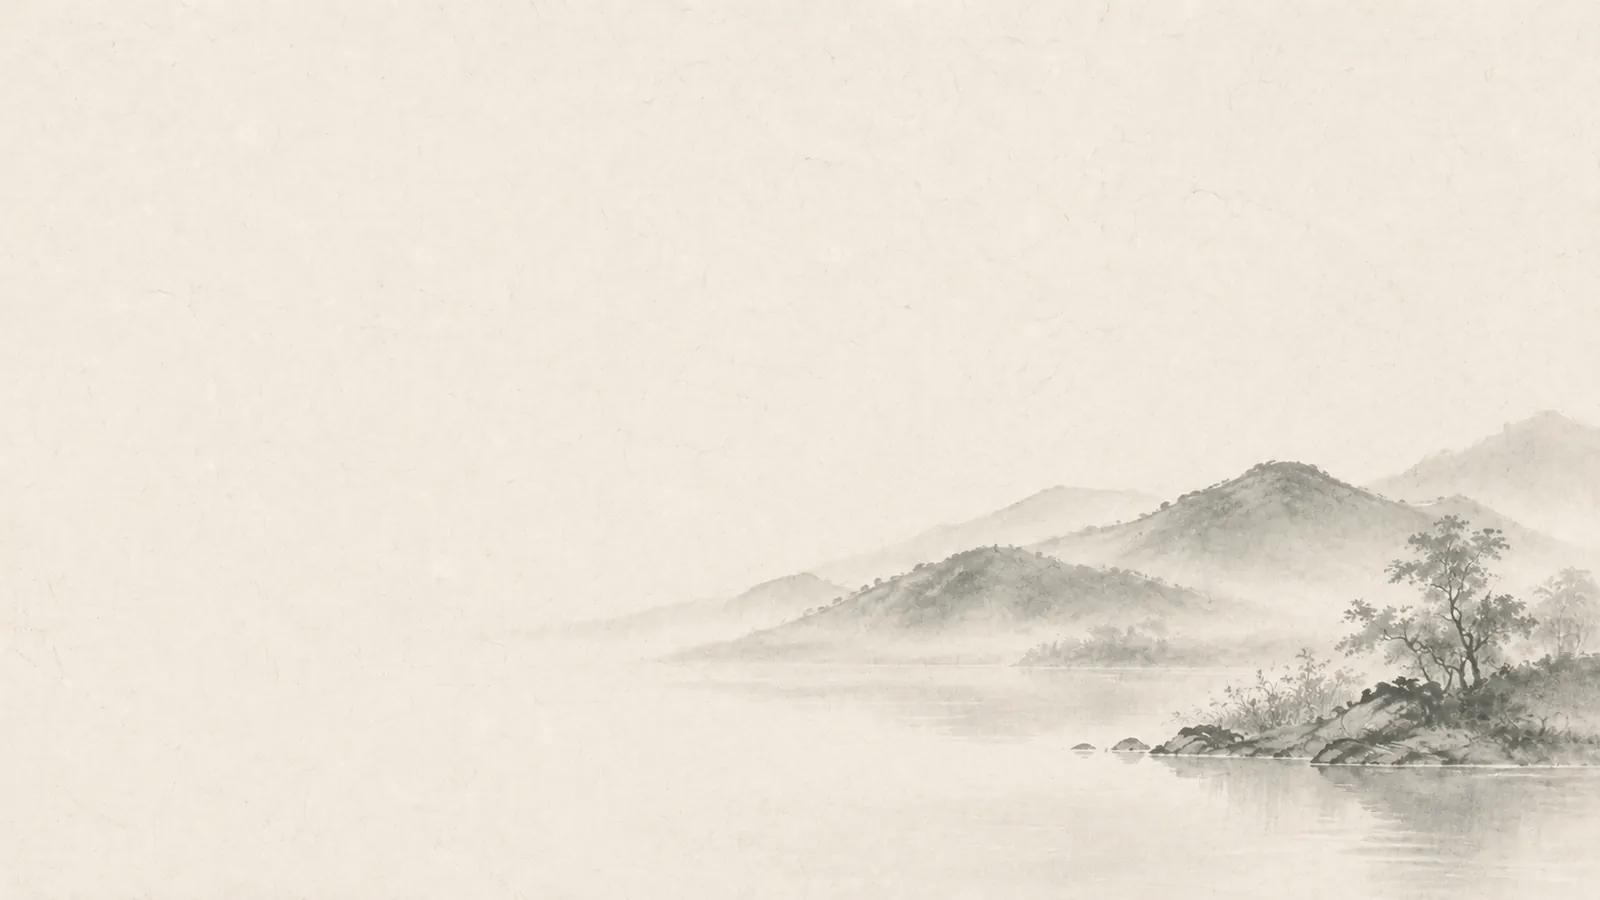
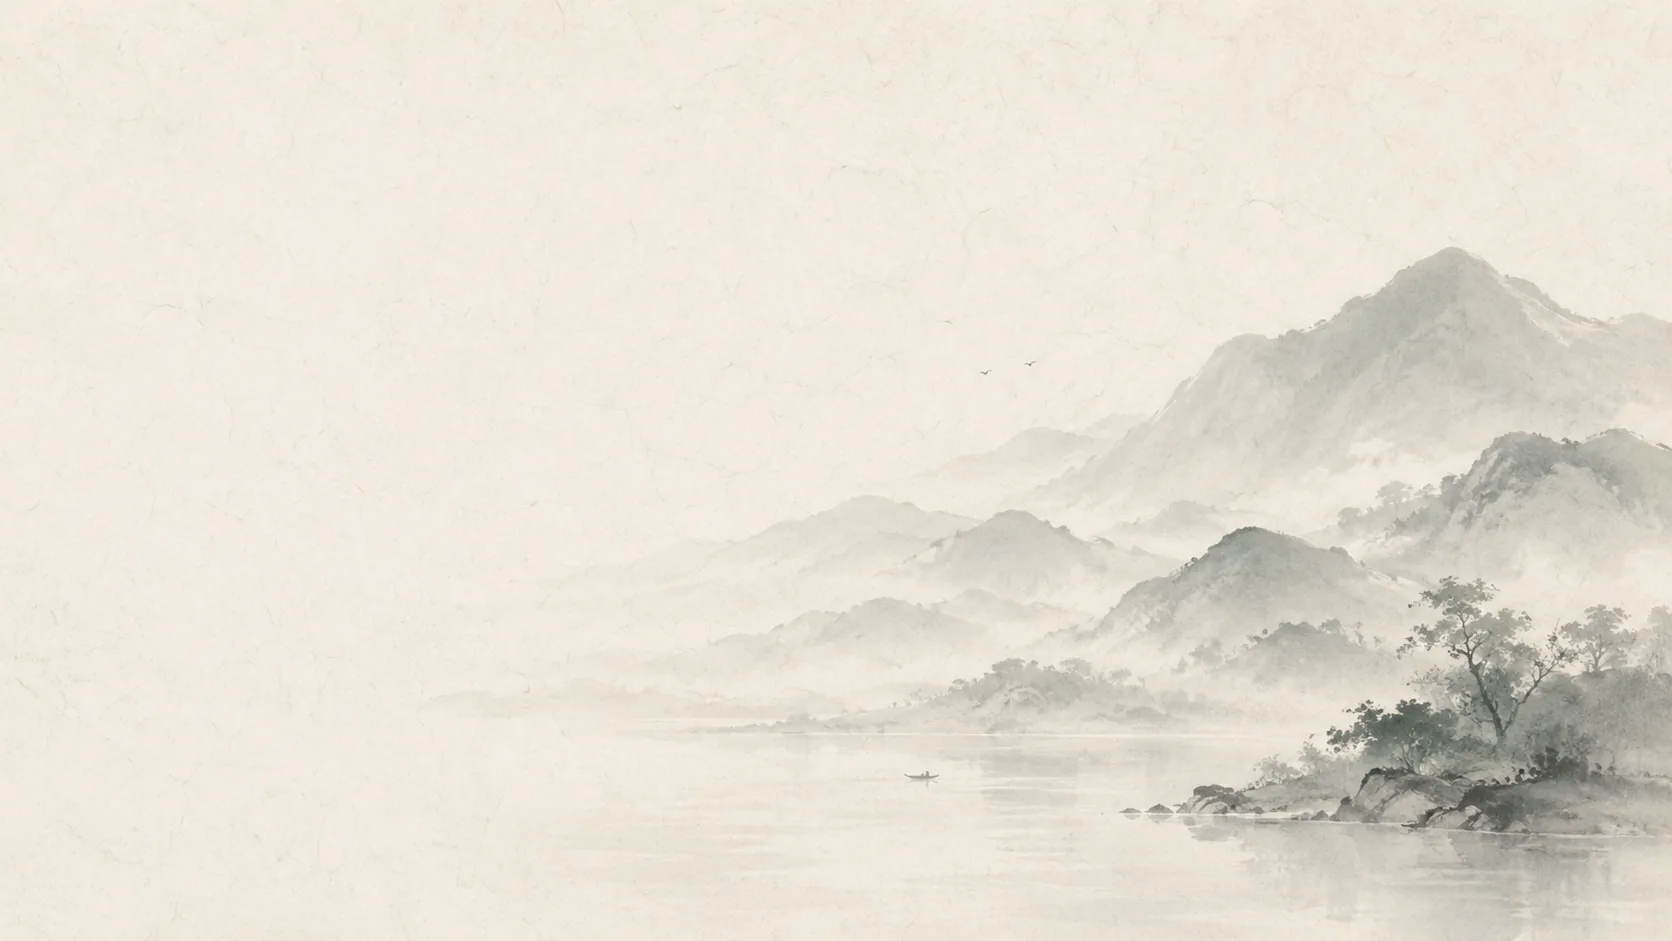
website(视觉): 全站页面级水墨背景扩展
- 新增 concepts/method/question-map/topics/subtle 页面水墨背景（桌面+移动端 WebP）
- 更新 home/topic 水墨背景图；fidelity.css 增加各页面背景覆盖
- ArticleLayout/QuestionLayout 背景适配；根 .gitignore 补充 topics/jing.md 例外

Changed region(s): [[0.4688, 0.2489, 1.0, 0.9644], [0.5312, 0.8089, 0.5625, 0.84], [0.4688, 0.7156, 0.5, 0.7467]]

diff --git a/website/docs/.vitepress/theme/styles/fidelity.css b/website/docs/.vitepress/theme/styles/fidelity.css
@@ -3,6 +3,11 @@
 :root {
   --wdz-home-ink-image: url('/images/ink/home-desktop.webp');
   --wdz-topic-ink-image: url('/images/ink/topic-desktop.webp');
+  --wdz-topics-ink-image: url('/images/ink/topics-desktop.webp');
+  --wdz-question-ink-image: url('/images/ink/question-map-desktop.webp');
+  --wdz-method-ink-image: url('/images/ink/method-desktop.webp');
+  --wdz-concepts-ink-image: url('/images/ink/concepts-desktop.webp');
+  --wdz-subtle-ink-image: url('/images/ink/subtle-desktop.webp');
 }
 
 html,
@@ -110,6 +115,51 @@ body {
 
 .wdz-home-principles {
   background: rgba(250, 247, 240, 0.5);
+}
+
+/* 页面级水墨装饰：只作为背景层，不能承载内容或影响阅读对比度。 */
+.wdz-topics-page,
+.wdz-question-page,
+.wdz-method-page,
+.wdz-safety-page {
+  position: relative;
+  isolation: isolate;
+}
+
+.wdz-topics-page::before,
+.wdz-question-page::before,
+.wdz-method-page::before,
+.wdz-safety-page::before {
+  position: absolute;
+  z-index: -1;
+  inset: 0 0 auto;
+  height: 520px;
+  pointer-events: none;
+  content: '';
+  background-position: right top;
+  background-repeat: no-repeat;
+  background-size: min(920px, 66vw) auto;
+  opacity: 0.10;
+}
+
+.wdz-topics-page::before { background-image: var(--wdz-topics-ink-image); }
+.wdz-question-page::before { background-image: var(--wdz-question-ink-image); opacity: 0.08; }
+.wdz-method-page::before { background-image: var(--wdz-method-ink-image); opacity: 0.08; }
+.wdz-safety-page::before { background-image: var(--wdz-subtle-ink-image); opacity: 0.06; }
+
+.wdz-home__concepts {
+  position: relative;
+  isolation: isolate;
+}
+
+.wdz-home__concepts::before {
+  position: absolute;
+  z-index: -1;
+  inset: -30px -8% -30px 36%;
+  pointer-events: none;
+  content: '';
+  background: var(--wdz-concepts-ink-image) right center / contain no-repeat;
+  opacity: 0.055;
 }
 
 .wdz-home-principles__inner > div {
@@ -435,6 +485,11 @@ body {
   :root {
     --wdz-home-ink-image: url('/images/ink/home-mobile.webp');
     --wdz-topic-ink-image: url('/images/ink/topic-mobile.webp');
+    --wdz-topics-ink-image: url('/images/ink/topics-mobile.webp');
+    --wdz-question-ink-image: url('/images/ink/question-map-mobile.webp');
+    --wdz-method-ink-image: url('/images/ink/method-mobile.webp');
+    --wdz-concepts-ink-image: url('/images/ink/concepts-mobile.webp');
+    --wdz-subtle-ink-image: url('/images/ink/subtle-mobile.webp');
   }
 
   .wdz-container { padding-inline: 20px; }
@@ -501,6 +556,10 @@ body {
   .wdz-knowledge-questions__list { grid-template-columns: 1fr; }
 
   .wdz-topics-page { padding-top: 40px; padding-bottom: 64px; }
+  .wdz-topics-page::before,
+  .wdz-question-page::before,
+  .wdz-method-page::before,
+  .wdz-safety-page::before { height: 360px; background-size: 100% auto; opacity: 0.06; }
   .wdz-topics-hero { padding: 16px 0 48px; }
   .wdz-topics-hero h1 { font-size: 2.6rem; }
   .wdz-topics-section { padding-top: 48px; }
@@ -510,6 +569,7 @@ body {
   .wdz-topics-roadmap { grid-template-columns: repeat(2, minmax(0, 1fr)); }
   .wdz-topic-roadmap-item:nth-child(3) { border-left: 0; border-top: 1px solid var(--wdz-line); }
   .wdz-topic-roadmap-item:nth-child(4) { border-top: 1px solid var(--wdz-line); }
+  .wdz-home__concepts::before { inset: -16px 0; opacity: 0.035; }
 }
 
 @media (max-width: 480px) {
@@ -540,5 +600,10 @@ body {
 
 @media (prefers-reduced-motion: reduce) {
   .wdz-hero__ink,
-  .wdz-topic-hero__ink { display: none; }
+  .wdz-topic-hero__ink,
+  .wdz-topics-page::before,
+  .wdz-question-page::before,
+  .wdz-method-page::before,
+  .wdz-safety-page::before,
+  .wdz-home__concepts::before { display: none; }
 }

diff --git a/website/docs/.vitepress/theme/layouts/ArticleLayout.vue b/website/docs/.vitepress/theme/layouts/ArticleLayout.vue
@@ -65,7 +65,14 @@ const riskLevel = computed<'info' | 'caution' | 'danger' | null>(() => {
 </script>
 
 <template>
-  <div class="wdz-container wdz-container--narrow wdz-prose wdz-article" style="padding-top: 48px; padding-bottom: 64px;">
+  <div
+    class="wdz-container wdz-container--narrow wdz-prose wdz-article"
+    :class="{
+      'wdz-method-page': route.path === '/method/' || route.path === '/method',
+      'wdz-safety-page': route.path === '/safety/' || route.path === '/safety'
+    }"
+    style="padding-top: 48px; padding-bottom: 64px;"
+  >
     <!-- 知识卡详情：头部证据组件 -->
     <template v-if="isDetail && current">
       <div class="wdz-original-title">

diff --git a/website/docs/.vitepress/theme/layouts/QuestionLayout.vue b/website/docs/.vitepress/theme/layouts/QuestionLayout.vue
@@ -45,7 +45,7 @@ const related = computed(() => ({
 </script>
 
 <template>
-  <div class="wdz-container" style="padding-top: 40px; padding-bottom: 64px;">
+  <div class="wdz-container wdz-question-page" style="padding-top: 40px; padding-bottom: 64px;">
     <template v-if="q">
       <!-- 问题首部 -->
       <div class="wdz-topic-hero">

diff --git a/website/docs/topics/jing.md b/website/docs/topics/jing.md
@@ -1,0 +1,5 @@
+---
+layout: topic
+title: 「静」专题
+# 静专题样板页：结构由 TopicLayout 组件从 topics.data 渲染（方案 8.1）
+---
